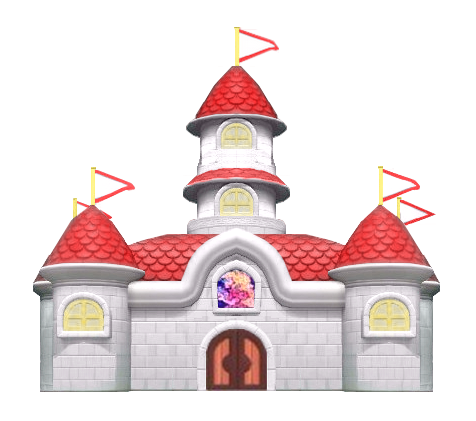
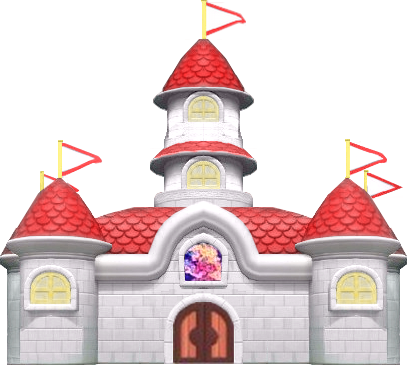
woensdag

diff --git a/styles/style.css b/styles/style.css
@@ -11,52 +11,190 @@ body {
   margin:0;
 }
 
-section:first-child {
-  width: 200vh;
-  height:100vh;
-  background-color: lightblue;
-}
-
-ul:first-child {
-  padding: 0;
-  margin:0;
-}
-
-section:first-child li:first-child {
-  width: 200vh;
-  height:20vh;
-  background-color: green;
-  position: relative;
-  bottom: -32em;
-  list-style: none;
-}
-
-section:first-child li:nth-of-type(2) {
-  /* image */
-}
-
-ul:nth-of-type(2) {
-  padding: 0;
-  margin:0;
-}
-
-
-
-
-section:nth-of-type(2){
-  background-color: peru;
-  width: 200vh;
+/* Alle sections */
+section {
+  width: 100vw;
   height:100vh;
 }
 
-section:nth-of-type(2) li:first-child {
-  background-color: grey;
-  width: 200vh;
-  height:20vh;
+
+
+/* Level 1*/
+section:nth-of-type(1) {
   position: relative;
-  bottom: -32em;
-  list-style-type: none;
-  list-style: none;
+  background-image: 
+    linear-gradient(
+      DeepSkyBlue,
+      lightblue 85%,
+      forestgreen 85% 87%,
+      darkgreen 89%,
+      BurlyWood  90%
+    );
+}
+
+
+/* Kasteel en co */
+section:nth-of-type(1) img:nth-of-type(1) {
+  position: absolute;
+  bottom:16%;
+  right:5%;
+  width:30%;
+}
+
+section:nth-of-type(1) img:nth-of-type(2) {
+  position: absolute;
+  top:5%;
+  left:10%;
+  width:30%;
+}
+
+section:nth-of-type(1) img:nth-of-type(3) {
+  position: absolute;
+  top:10%;
+  right:10%;
+  width:8%;
+}
+
+section:nth-of-type(1) img:nth-of-type(4) {
+  position: absolute;
+  top:50%;
+  left:15%;
+  width: 3%;
+}
+
+section:nth-of-type(1) img:nth-of-type(5) {
+  position: absolute;
+  top:45%;
+  left:20%;
+  width: 3%;
+}
+
+section:nth-of-type(1) img:nth-of-type(6) {
+  position: absolute;
+  top:40%;
+  left:25%;
+  width: 3%;
+}
+
+section:nth-of-type(1) img:nth-of-type(7) {
+  position: absolute;
+  top:45%;
+  left:30%;
+  width: 3%;
+}
+
+section:nth-of-type(1) img:nth-of-type(8) {
+  position: absolute;
+  top:50%;
+  left:35%;
+  width: 3%;
+}
+
+section:nth-of-type(1) img:nth-of-type(9) {
+  position: absolute;
+  top:45%;
+  left:40%;
+  width: 3%;
+}
+
+section:nth-of-type(1) img:nth-of-type(10) {
+  position: absolute;
+  top:40%;
+  left:45%;
+  width: 3%;
+}
+
+section:nth-of-type(1) img:nth-of-type(11) {
+  position: absolute;
+  top:45%;
+  left:50%;
+  width: 3%;
+}
+
+section:nth-of-type(1) img:nth-of-type(12) {
+  position: absolute;
+  top:50%;
+  left:55%;
+  width: 3%;
+}
+
+section:nth-of-type(1) img:nth-of-type(13) {
+  position: absolute;
+  bottom:15%;
+  left:5%;
+  width: 7%;
+  z-index: 100;
+}
+
+section:nth-of-type(1) img:nth-of-type(14) {
+  position: absolute;
+  width: 100%;
+  bottom:0%
+}
+
+
+/* kelder */
+section:nth-of-type(2) {
+  position: relative;
+  background-color:black;
+  z-index: -1000;
+ 
+}
+
+section:nth-of-type(2) img:nth-of-type(1) {
+  position: absolute;
+  width: 100%;
+  bottom:0%;
+}
+
+section:nth-of-type(2) img:nth-of-type(2) {
+  position: absolute;
+  width: 100%;
+  top:0%;
+}
+
+section:nth-of-type(2) img:nth-of-type(3) {
+  position: absolute;
+  width: 10%;
+  left: 20%;
+  bottom:19%;
+  z-index: -10;
+}
+
+section:nth-of-type(2) img:nth-of-type(4) {
+  position: absolute;
+  width: 10%;
+  left: 50%;
+  bottom:19%;
+  z-index: -10;
+}
+
+section:nth-of-type(2) img:nth-of-type(5) {
+  position: absolute;
+  width: 10%;
+  left: 80%;
+  bottom:19%;
+  z-index: -10;
+}
+
+/* section:nth-of-type(2) ol {
+  position: absolute;
+  width: 5%;
+  bottom:18%;
+} */
+
+section:nth-of-type(2) li:nth-of-type(1){
+  position: absolute;
+  left: 10%;
+  width: 5%;
+  bottom:21%;
+}
+
+section:nth-of-type(2) li:nth-of-type(2){
+  position: absolute;
+  left: 30%;
+  width: 5%;
+  bottom:20%;
 }
 
 

diff --git a/index.html b/index.html
@@ -19,22 +19,59 @@
 
     <main>
       <!-- level 1 -->
+
       <section>
-        <ul>
-          <li></li>
-          <li><img src="./images/castle.PNG" alt="Kasteel" /></li>
-		  <li></li>
-		  <li></li>
-        </ul>
+		<img src="./images/castle.PNG" alt="Kasteel" />
+		<img src="./images/clouds.png" alt="Wolken">
+		<img src="./images/small-cloud.png" alt="Kleine-wolk">
+		<img src="./images/coin.png" alt="ster">
+		<img src="./images/coin.png" alt="ster">
+		<img src="./images/coin.png" alt="ster">
+		<img src="./images/coin.png" alt="ster">
+		<img src="./images/coin.png" alt="ster">
+		<img src="./images/coin.png" alt="ster">
+		<img src="./images/coin.png" alt="ster">
+		<img src="./images/coin.png" alt="ster">
+		<img src="./images/coin.png" alt="ster">
+		<img src="./images/peach1.png" alt="peach">
+		<img src="./images/vloer-level1.png" alt="vloer-bovenwereld">
       </section>
 
-      <!-- level 2 -->
+
+      <!-- level 2  -->
       <section>
-        <ul>
-          <li></li>
-          <li></li>
-        </ul>
-      </section>
+		  <img src="./images/underground-floor.png" alt="Vloer">
+		  <img src="./images/plafond.png" alt="plafond">
+		  <img src="./images/buis.png" alt="buis">
+		  <img src="./images/buis.png" alt="buis">
+		  <img src="./images/buis.png" alt="buis">
+
+		  <!-- princessen -->
+		  <ul>
+			  <li>
+				  <img src="./images/peach2.png" alt="1985">
+			  </li>
+			  <li>
+				<img src="./images/peach3.png" alt="1991">
+			</li>
+			<li>
+				<img src="" alt="">
+			</li>
+			<li>
+				<img src="" alt="">
+			</li>
+			<li>
+				<img src="" alt="">
+			</li>
+			<li>
+				<img src="" alt="">
+			</li>
+		</ul>
+      </section> 
+
+
+
+
 
       <!-- de tijdlijn zelf is een ordered list -->
 
@@ -45,7 +82,7 @@
       <!-- in elk listitem staat nu een link -->
       <!-- de link kun je vullen met jouw content -->
       <!-- of in zijn geheel vervangen door jouw content -->
-      <ol>
+      <!-- <ol>
         <li>
           <a href="#">eerste punt in tijd</a>
         </li>
@@ -73,7 +110,7 @@
         <li>
           <a href="#">negende punt in tijd</a>
         </li>
-      </ol>
+      </ol> -->
     </main>
 
     <script src="scripts/script.js"></script>
